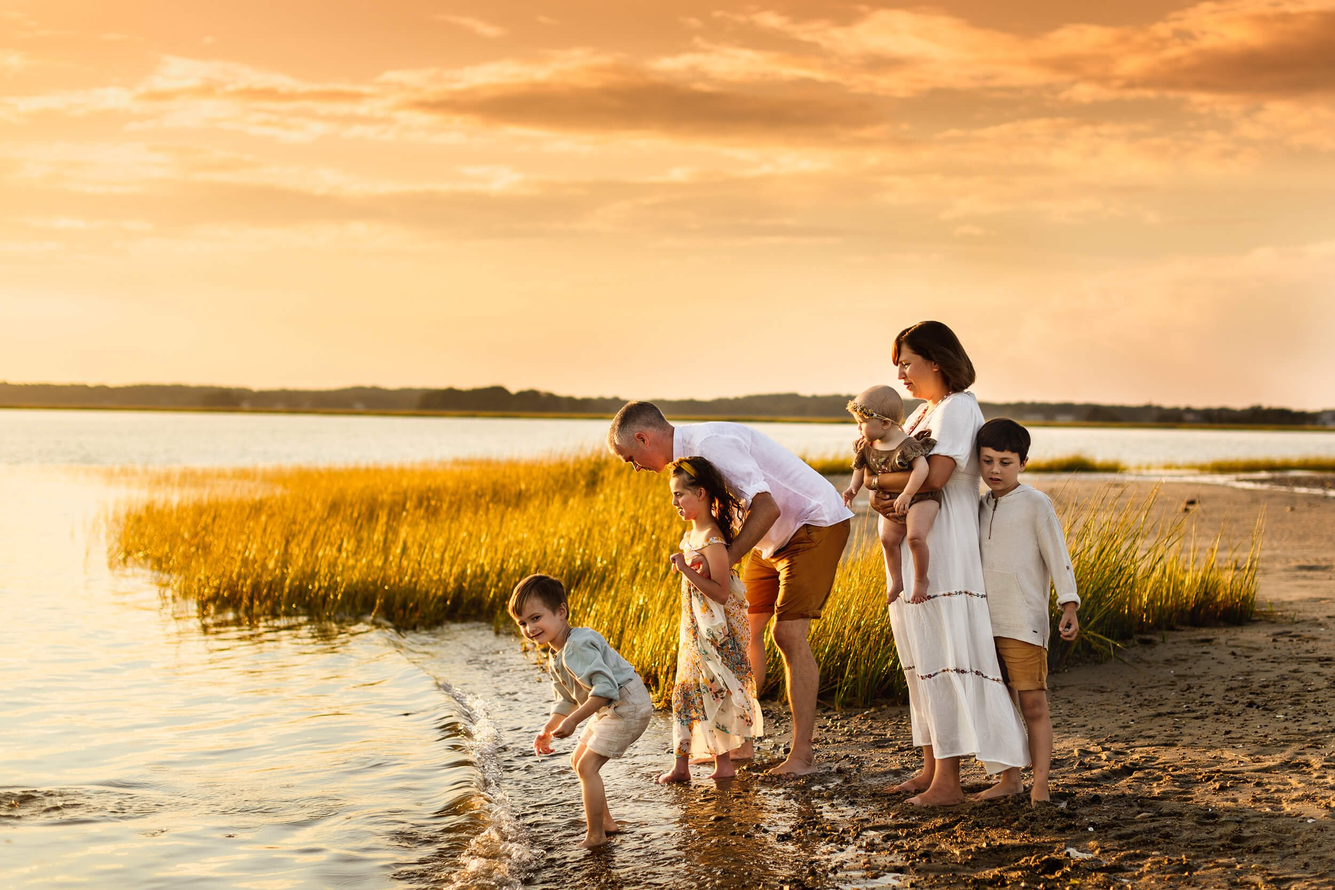
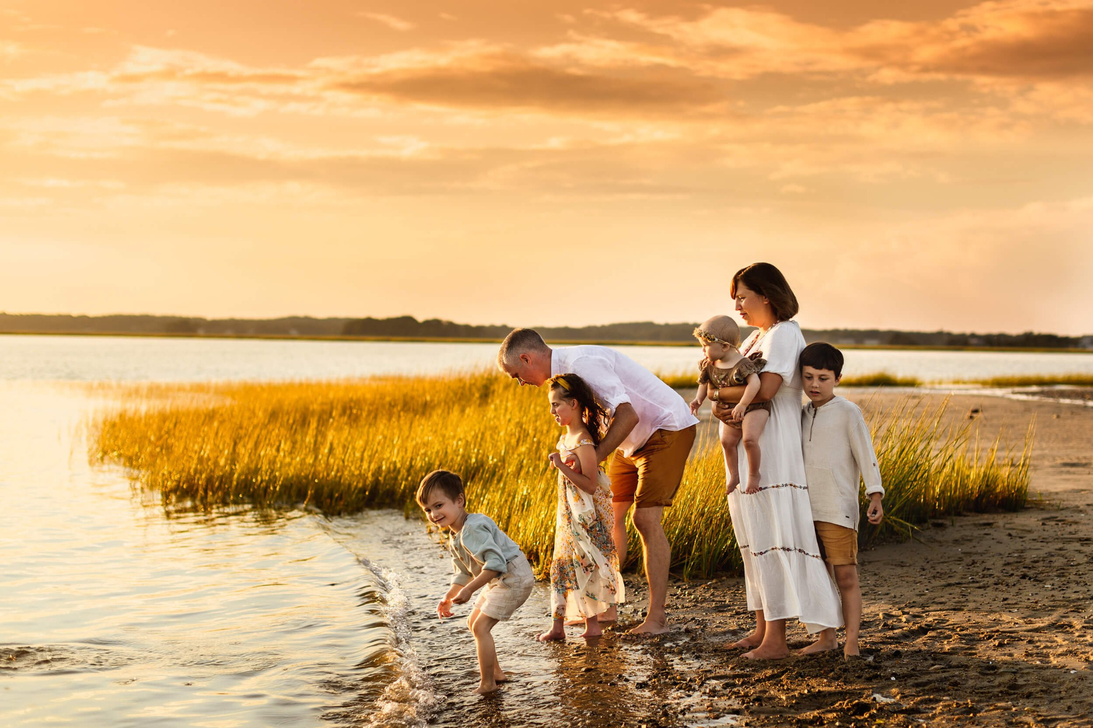
Add files via upload

diff --git a/index.html b/index.html
@@ -3,47 +3,94 @@
 <head>
   <meta charset="UTF-8">
   <meta name="viewport" content="width=device-width, initial-scale=1">
-  <title>Welcome to MyCasePath</title>
-  <link rel="stylesheet" href="site.css">
-  <link rel="stylesheet" href="static.css">
-  <link rel="stylesheet" href="user-account-core-b14aa86836946090-min.en-US.css">
+  <title>MyCasePath – The Path Forward</title>
   <style>
-    body { background: #f7fafc; color: #222; font-family: Arial, sans-serif; }
-    .container {
-      max-width: 700px; margin: 60px auto; background: #fff;
-      border-radius: 12px; box-shadow: 0 2px 16px rgba(0,0,0,0.07);
-      padding: 48px;
-      text-align: center;
+    html, body {
+      height: 100%;
+      margin: 0;
+      padding: 0;
     }
-    h1 { color: #234372; }
-    p { font-size: 1.2em; color: #2c3e50; }
-    .brand-image {
-      max-width: 320px;
-      margin: 30px auto 16px;
-      border-radius: 8px;
-      box-shadow: 0 1px 6px rgba(0,0,0,0.08);
+    body {
+      min-height: 100vh;
+      background: url('Duxbury-Beach-Session-Big-Family.jpg') no-repeat center center fixed;
+      background-size: cover;
+      font-family: Arial, sans-serif;
+      color: #fff;
+    }
+    .logo {
+      position: absolute;
+      top: 32px;
+      left: 32px;
+      width: 180px;
+      background: rgba(255,255,255,0.0);
+      z-index: 10;
+    }
+    .overlay {
+      position: absolute;
+      top: 0; left: 0; right: 0; bottom: 0;
+      background: rgba(34, 67, 114, 0.45);
+      z-index: 1;
+    }
+    .content {
+      position: absolute;
+      top: 50%;
+      left: 50%;
+      transform: translate(-50%, -50%);
+      z-index: 2;
+      text-align: center;
+      width: 90vw;
+      max-width: 600px;
+    }
+    h1 {
+      font-size: 2.8em;
+      font-weight: bold;
+      margin: 0 0 20px 0;
+      letter-spacing: 2px;
+    }
+    p {
+      font-size: 1.5em;
+      margin: 0 0 24px 0;
     }
     .button {
-      display: inline-block;
-      margin-top: 20px;
-      background: #234372;
-      color: #fff;
-      padding: 14px 34px;
-      border-radius: 5px;
+      background: #fff;
+      color: #234372;
+      padding: 14px 40px;
+      border: none;
+      border-radius: 6px;
+      font-size: 1.2em;
+      cursor: pointer;
       text-decoration: none;
       font-weight: bold;
-      transition: background 0.2s;
+      margin-top: 18px;
+      box-shadow: 0 2px 10px rgba(34,67,114,0.09);
+      transition: background 0.15s;
     }
-    .button:hover { background: #192d4b; }
+    .button:hover {
+      background: #f0f4f8;
+    }
+    @media (max-width: 600px) {
+      .logo {
+        width: 130px;
+        top: 16px;
+        left: 12px;
+      }
+      h1 {
+        font-size: 2em;
+      }
+      .content {
+        max-width: 98vw;
+      }
+    }
   </style>
 </head>
 <body>
-  <div class="container">
-    <img src="Duxbury-Beach-Session-Big-Family.jpg" alt="MyCasePath Team" class="brand-image">
-    <h1>Welcome to MyCasePath</h1>
+  <img src="CasePath.png" alt="CasePath Logo" class="logo">
+  <div class="overlay"></div>
+  <div class="content">
+    <h1>The Path Forward</h1>
     <p>
-      Your trusted solution for secure, intelligent case management.<br>
-      Empowering organizations with compliance, privacy, and AI-driven insight.
+      Welcome to MyCasePath.<br>
+      Your trusted solution for secure, intelligent case management.
     </p>
     <a href="mailto:info@mycasepath.com" class="button">Contact Us</a>
   </div>
